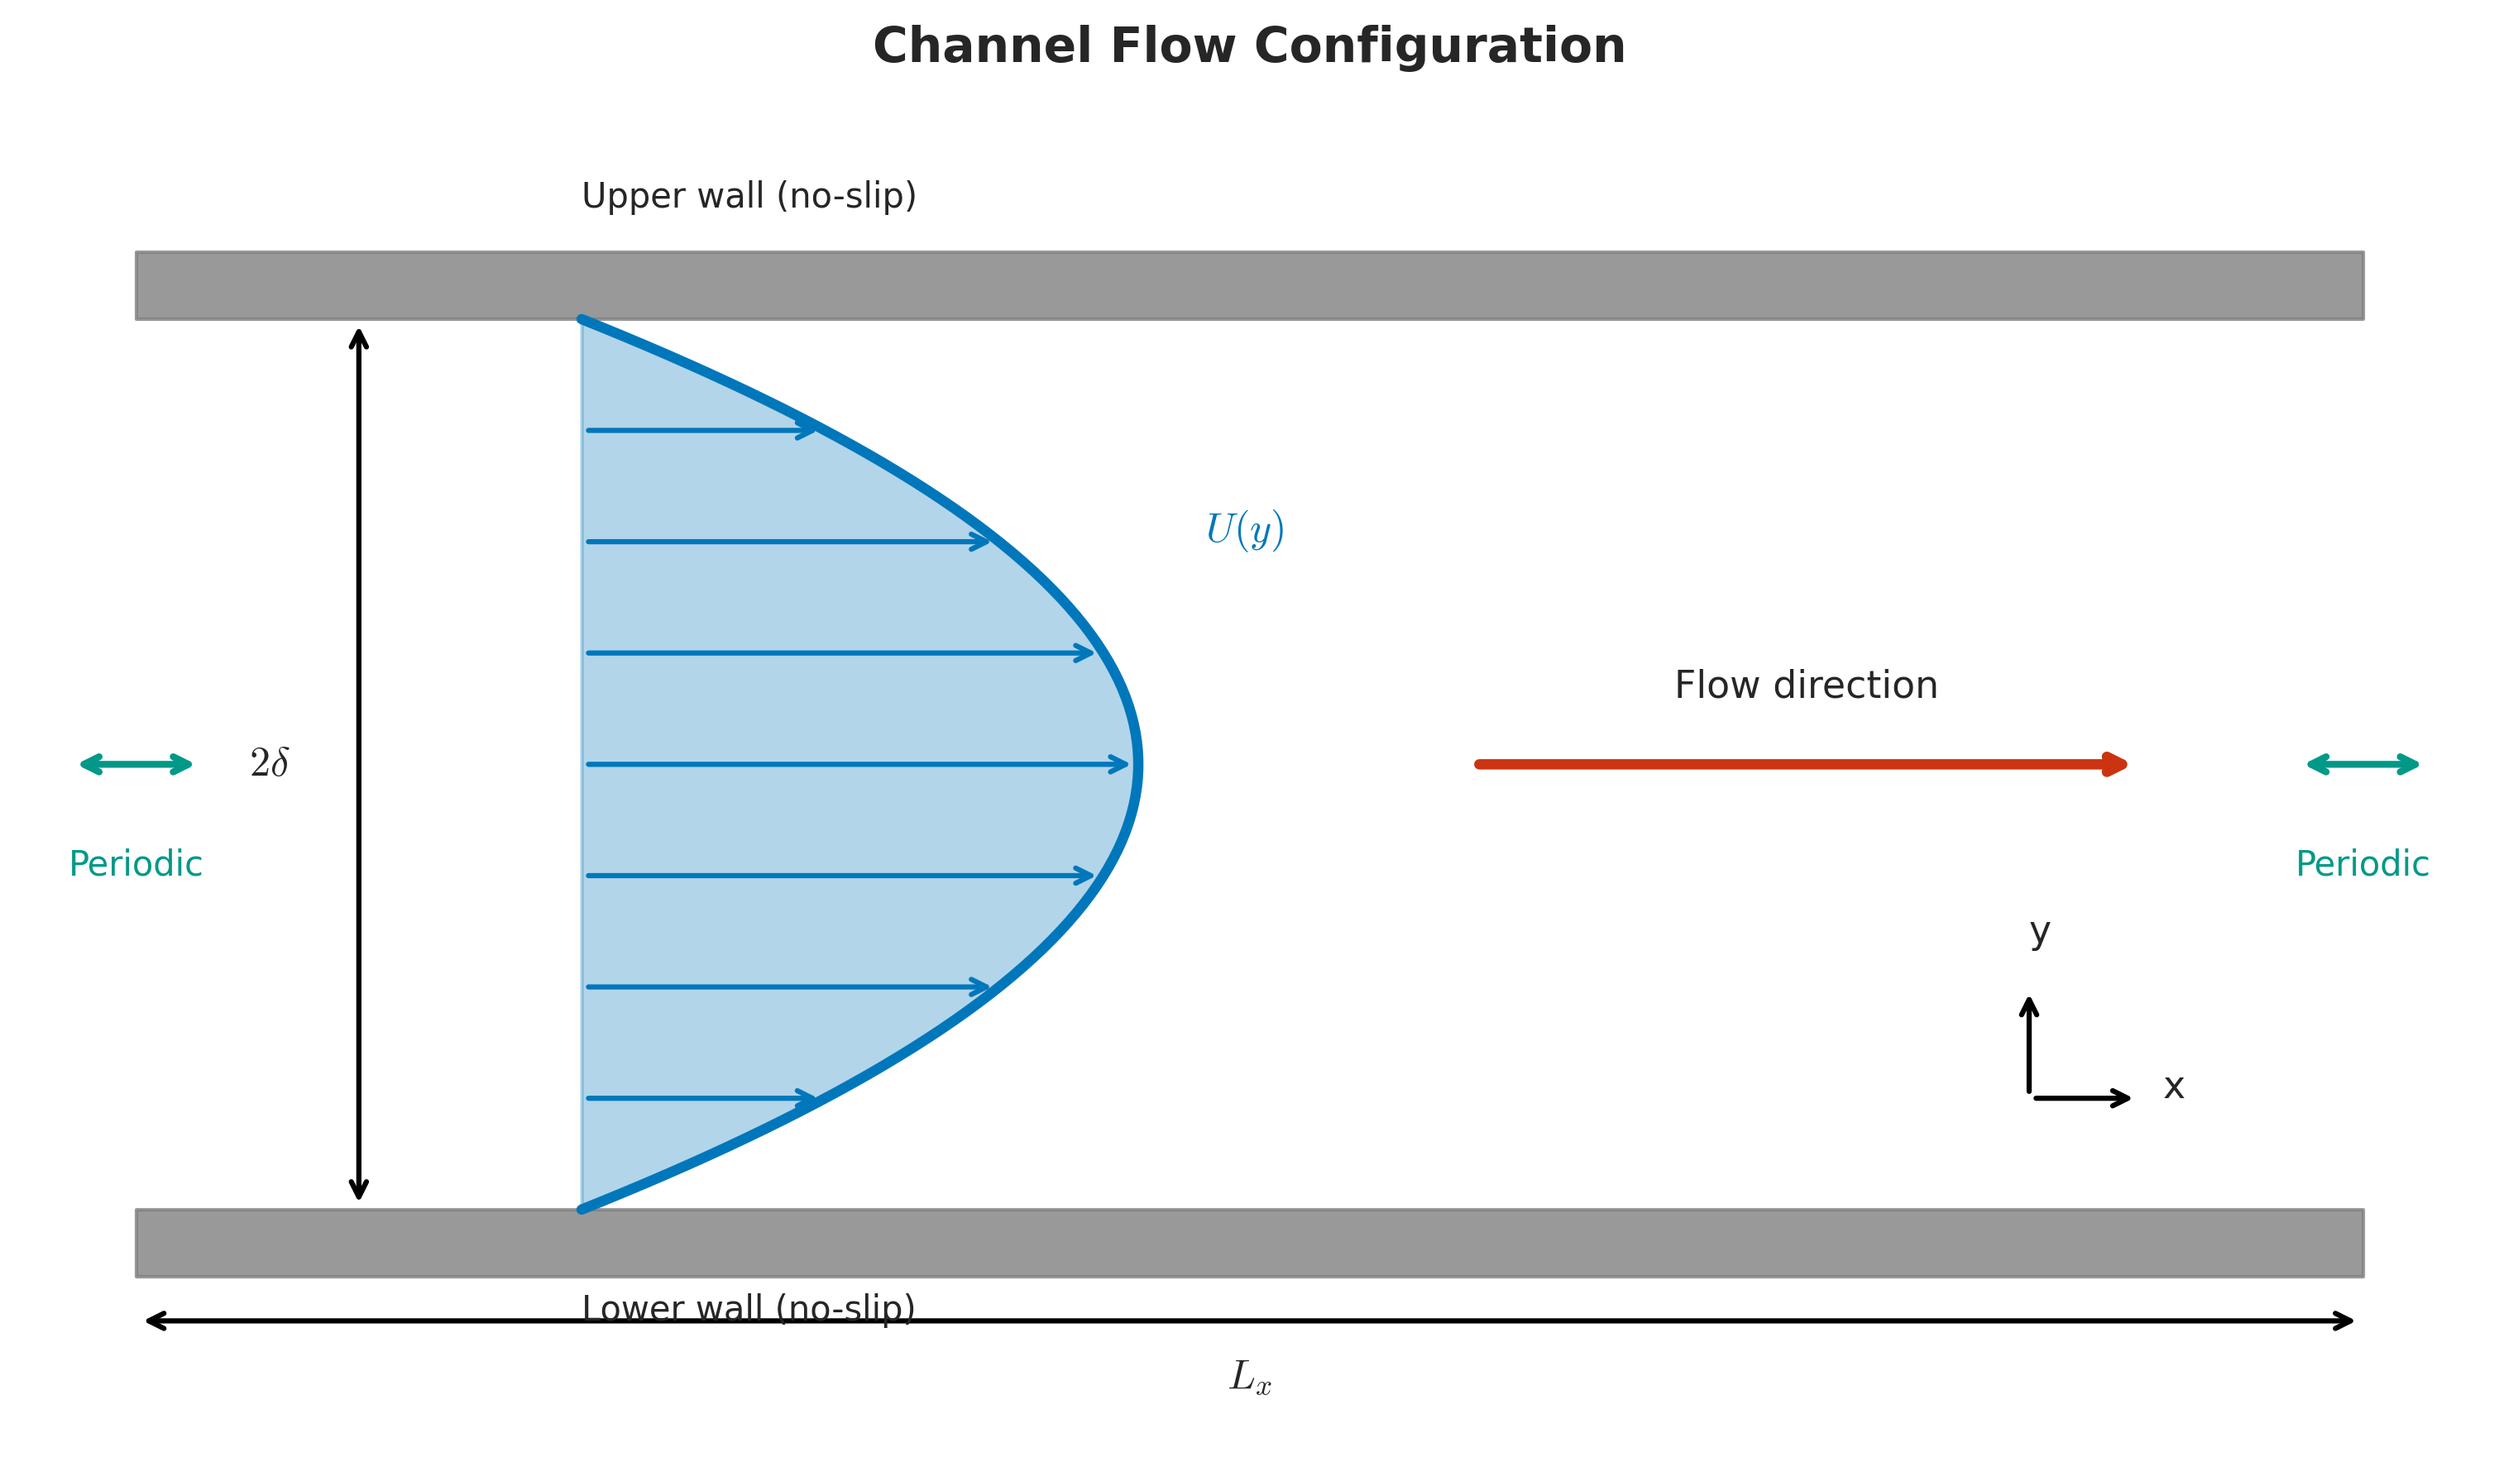
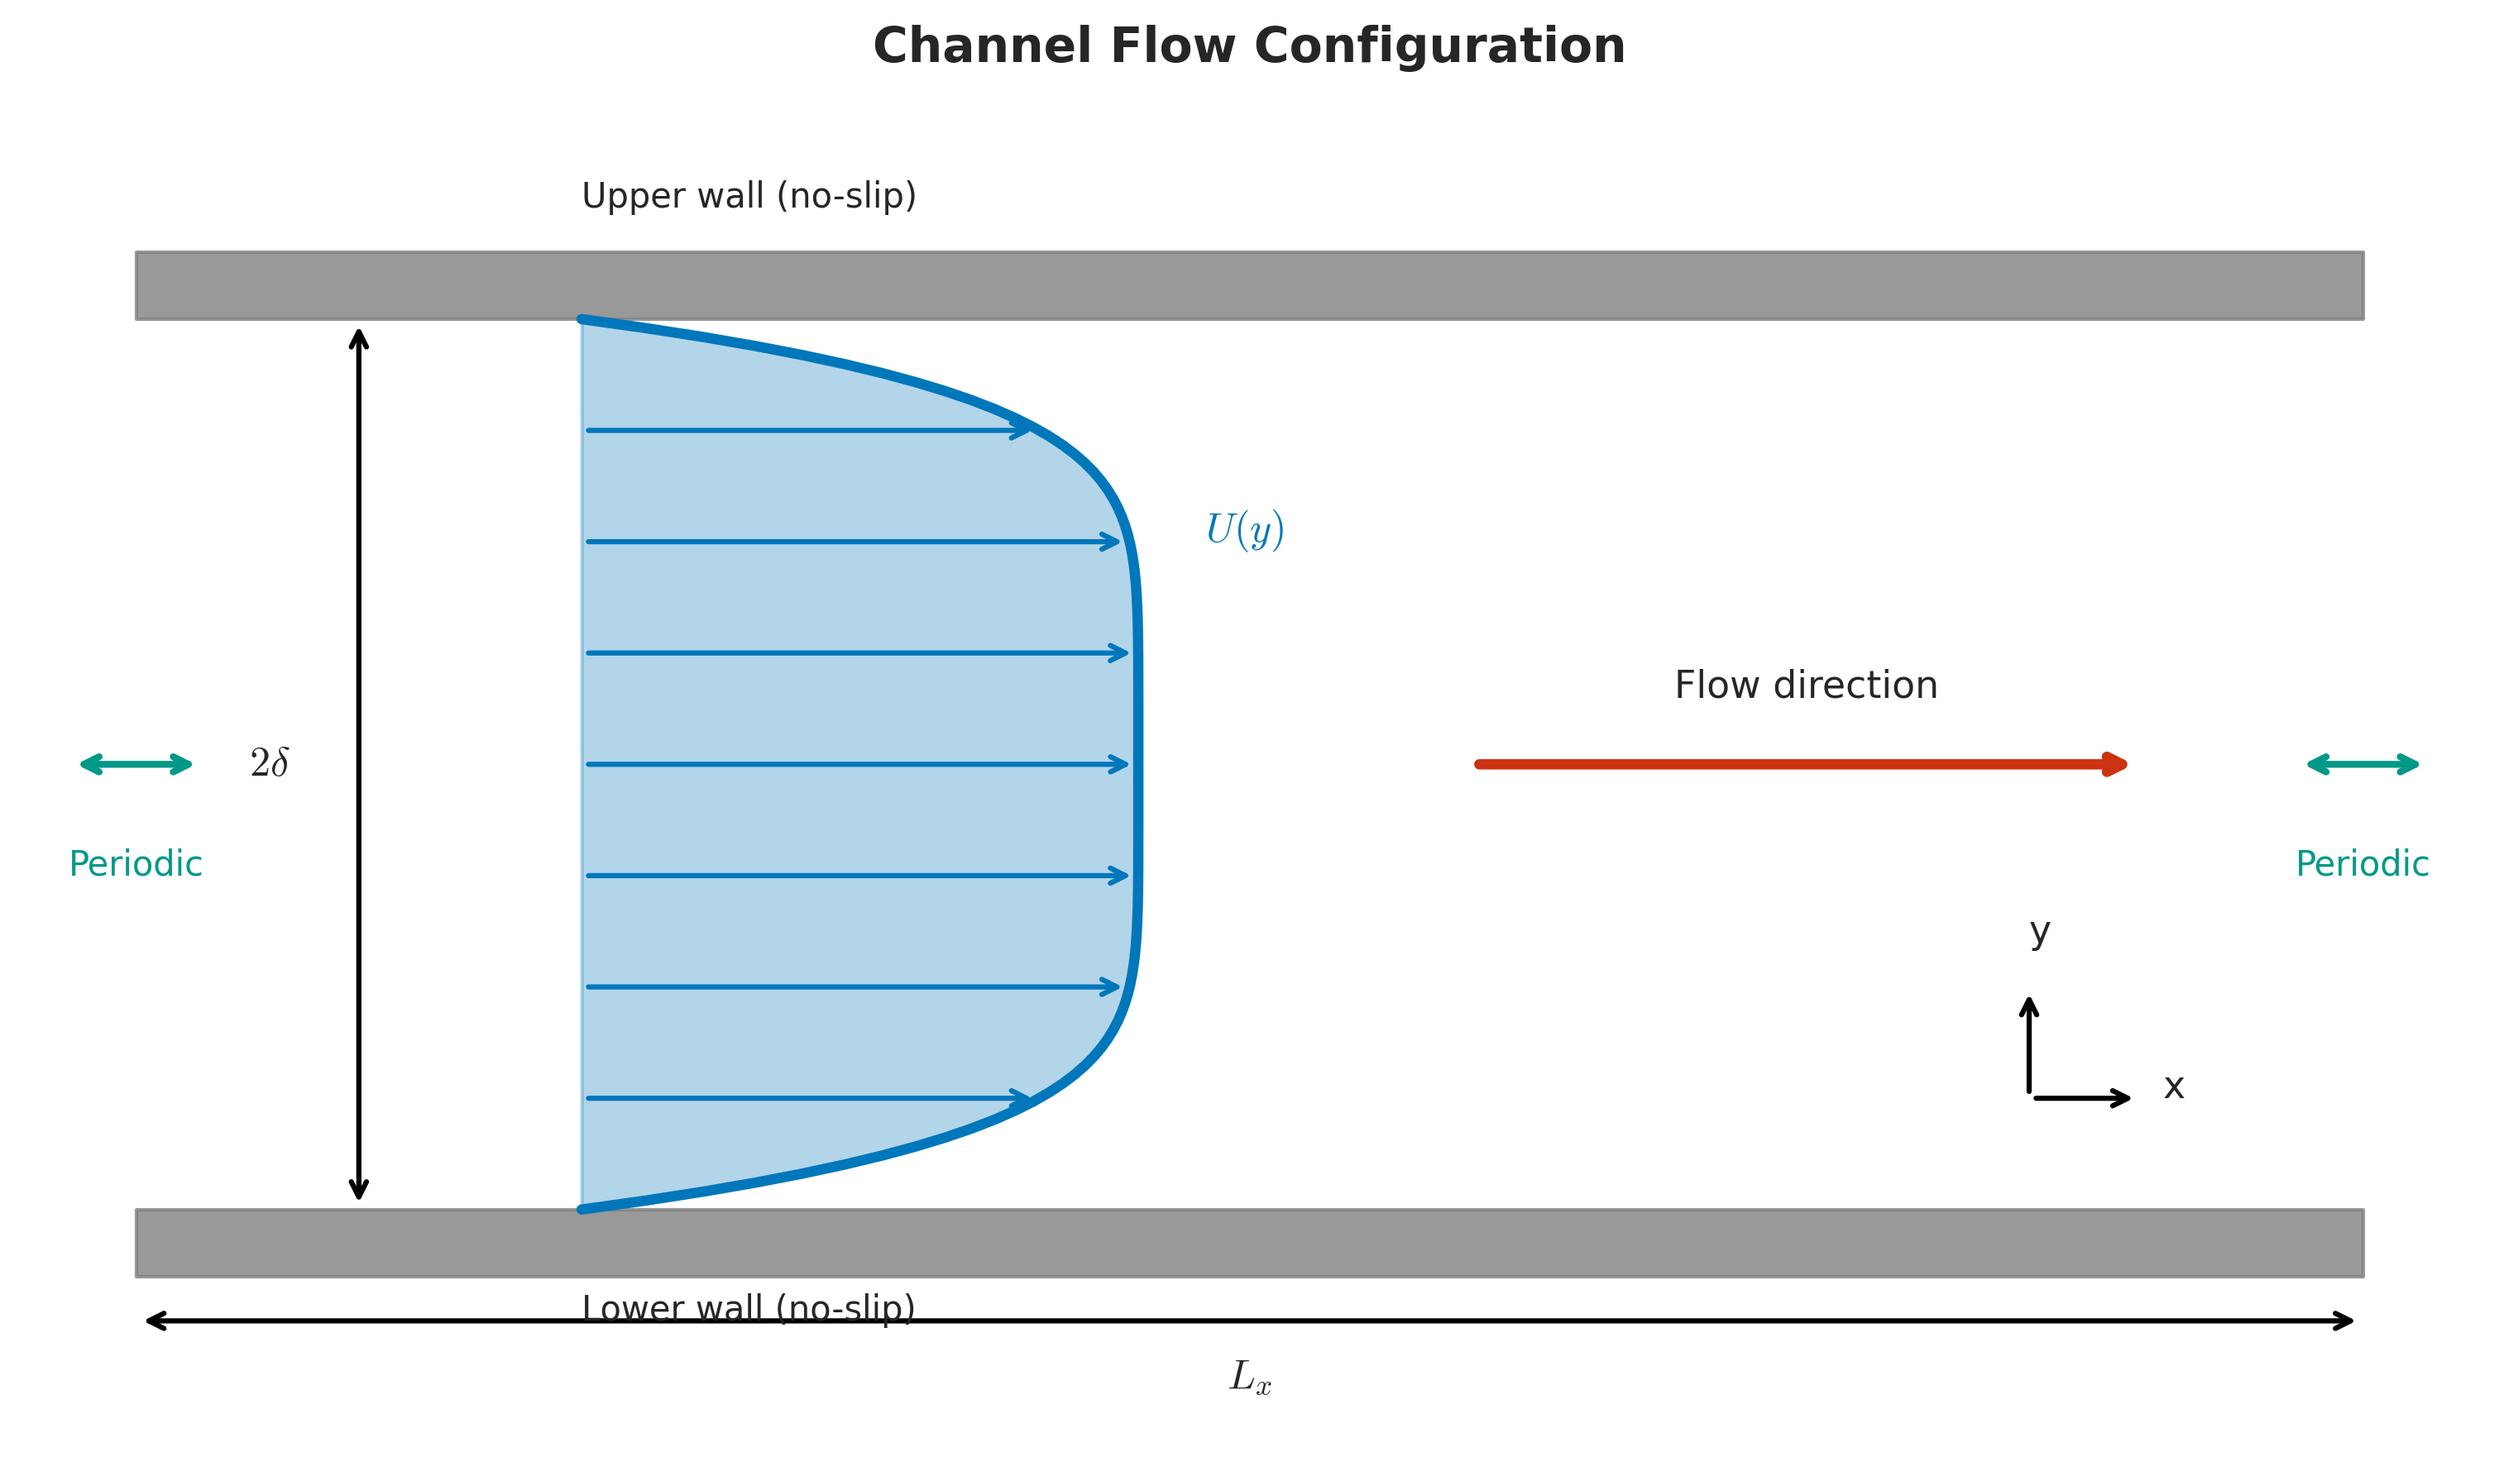
Use x⁶ profile for turbulent-like channel flow shape
Higher exponent gives flatter center with steeper near-wall gradients,
more representative of turbulent channel flow velocity profile.

🤖 Generated with [Claude Code](https://claude.com/claude-code)

Changed region(s): [[0.2178, 0.5306, 0.4667, 0.8428], [0.2178, 0.2185, 0.4667, 0.4994]]

diff --git a/scripts/schematics.py b/scripts/schematics.py
@@ -168,10 +168,10 @@ def create_channel_flow_schematic():
     ax.fill_between([0, 10], [-wall_y, -wall_y], [-wall_y - 0.3, -wall_y - 0.3],
                    color='gray', alpha=0.8)
 
-    # Velocity profile - parabolic shape (like x²)
+    # Velocity profile - turbulent-like shape (x⁶ for flatter center)
     y = np.linspace(-wall_y, wall_y, 100)
-    # Parabolic profile: u = 1 - (y/delta)^2
-    u = 1 - (y/wall_y)**2
+    # Higher exponent profile: u = 1 - (y/delta)^6
+    u = 1 - (y/wall_y)**6
 
     # Draw velocity profile (curve extends RIGHT from baseline to show U(y) magnitude)
     ax.plot(2 + u*2.5, y, color=COLORS['blue'], linewidth=3)
@@ -179,7 +179,7 @@ def create_channel_flow_schematic():
 
     # Velocity arrows (pointing RIGHT to show velocity magnitude at each y)
     for yi in np.linspace(-1.5, 1.5, 7):
-        ui = 1 - (yi/wall_y)**2
+        ui = 1 - (yi/wall_y)**6
         ax.annotate('', xy=(2 + ui*2.5, yi), xytext=(2, yi),
                    arrowprops=dict(arrowstyle='->', color=COLORS['blue'], lw=1.5))
 
